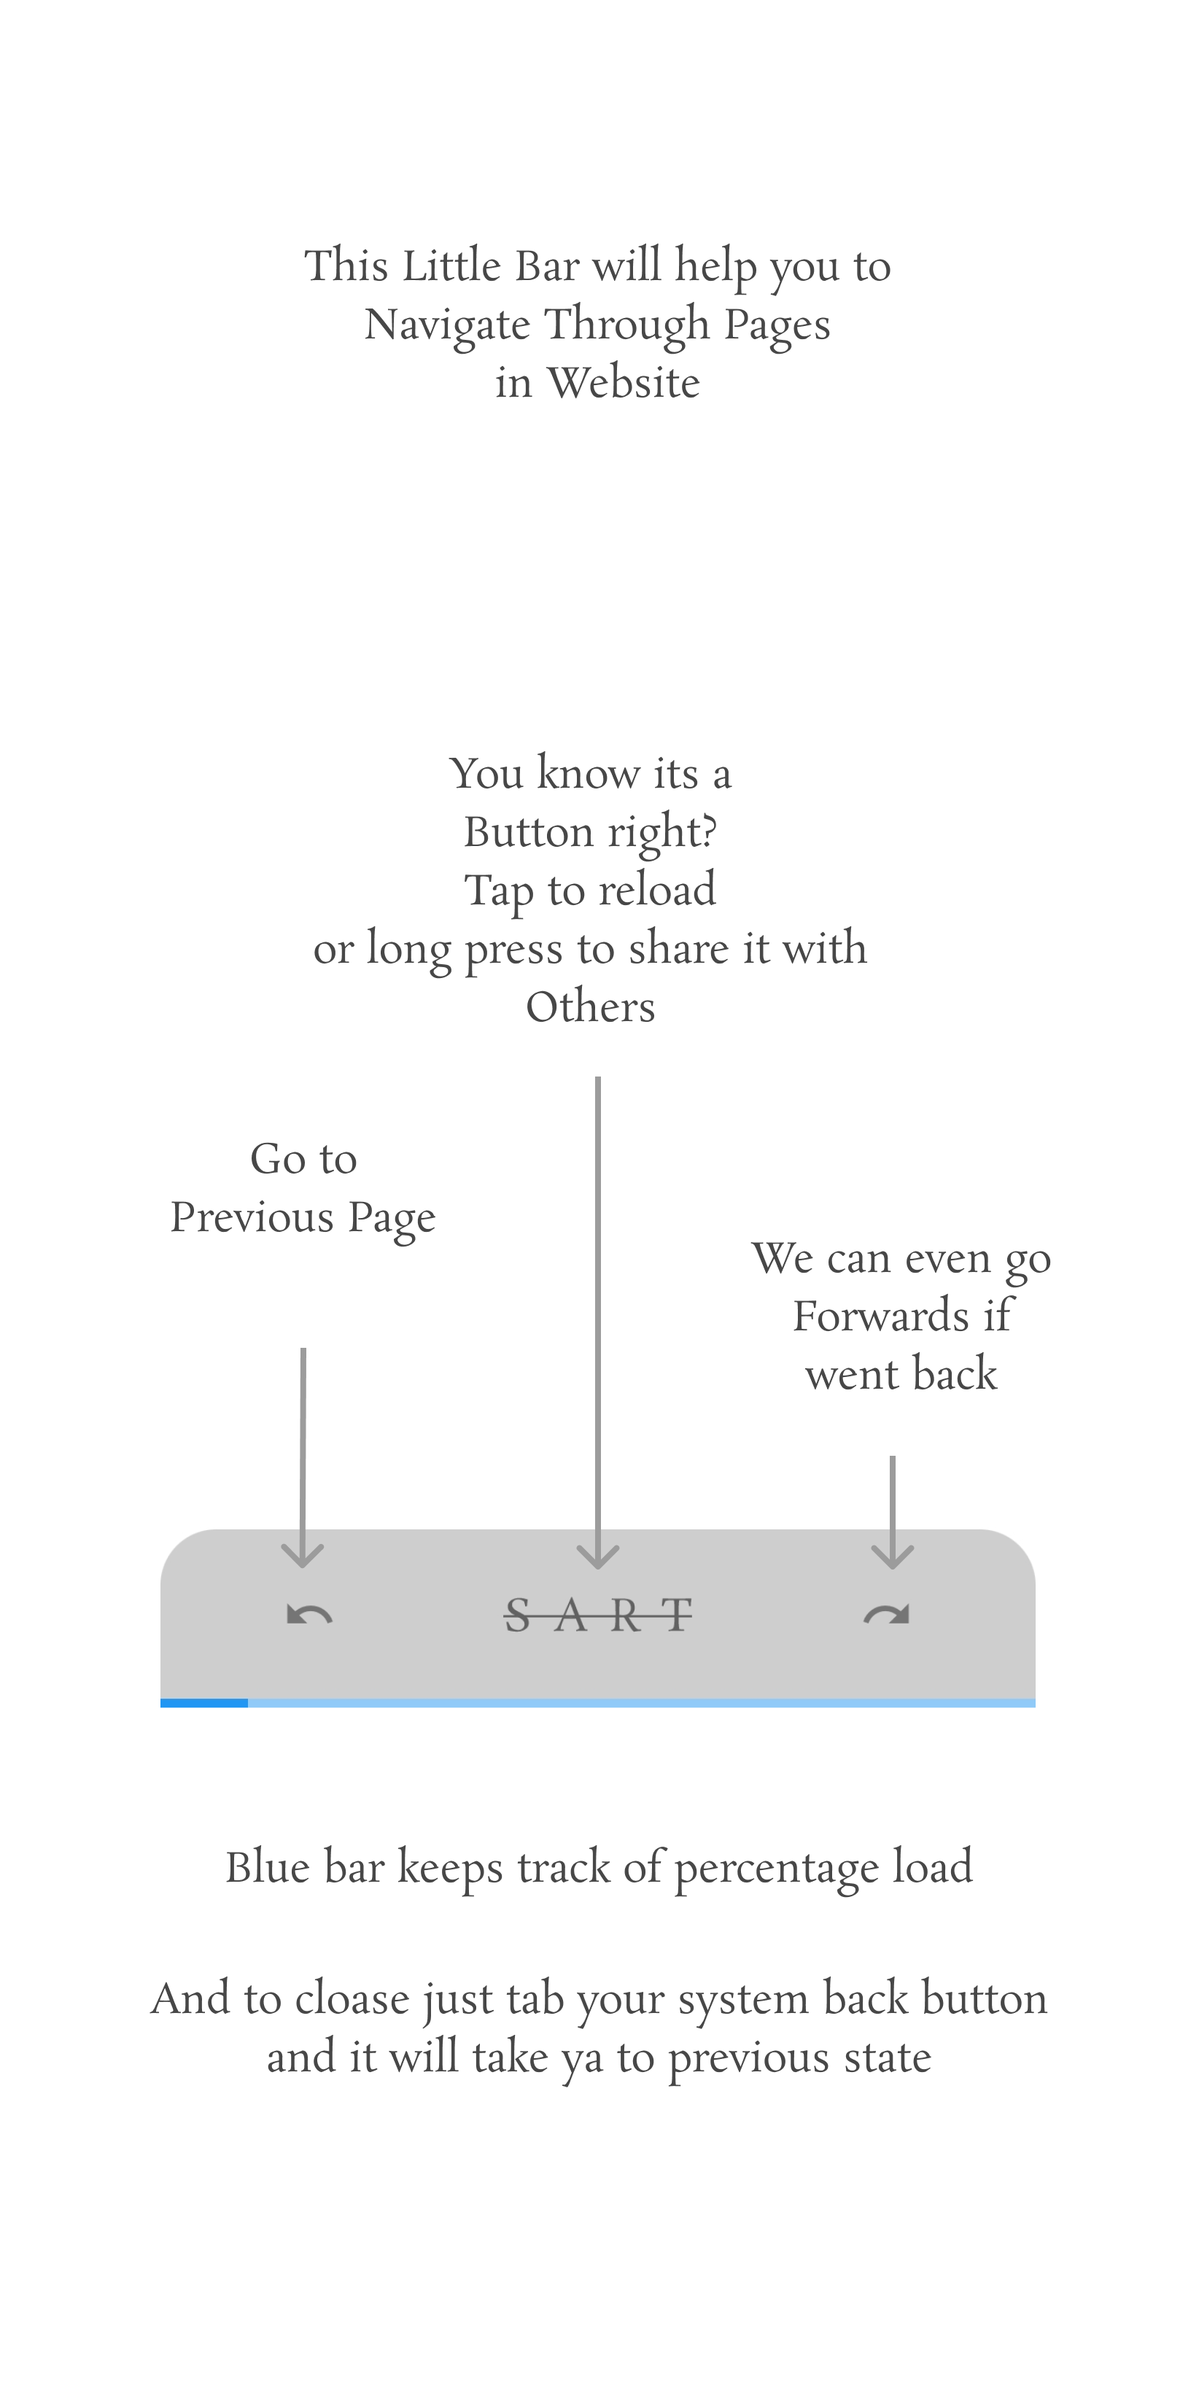
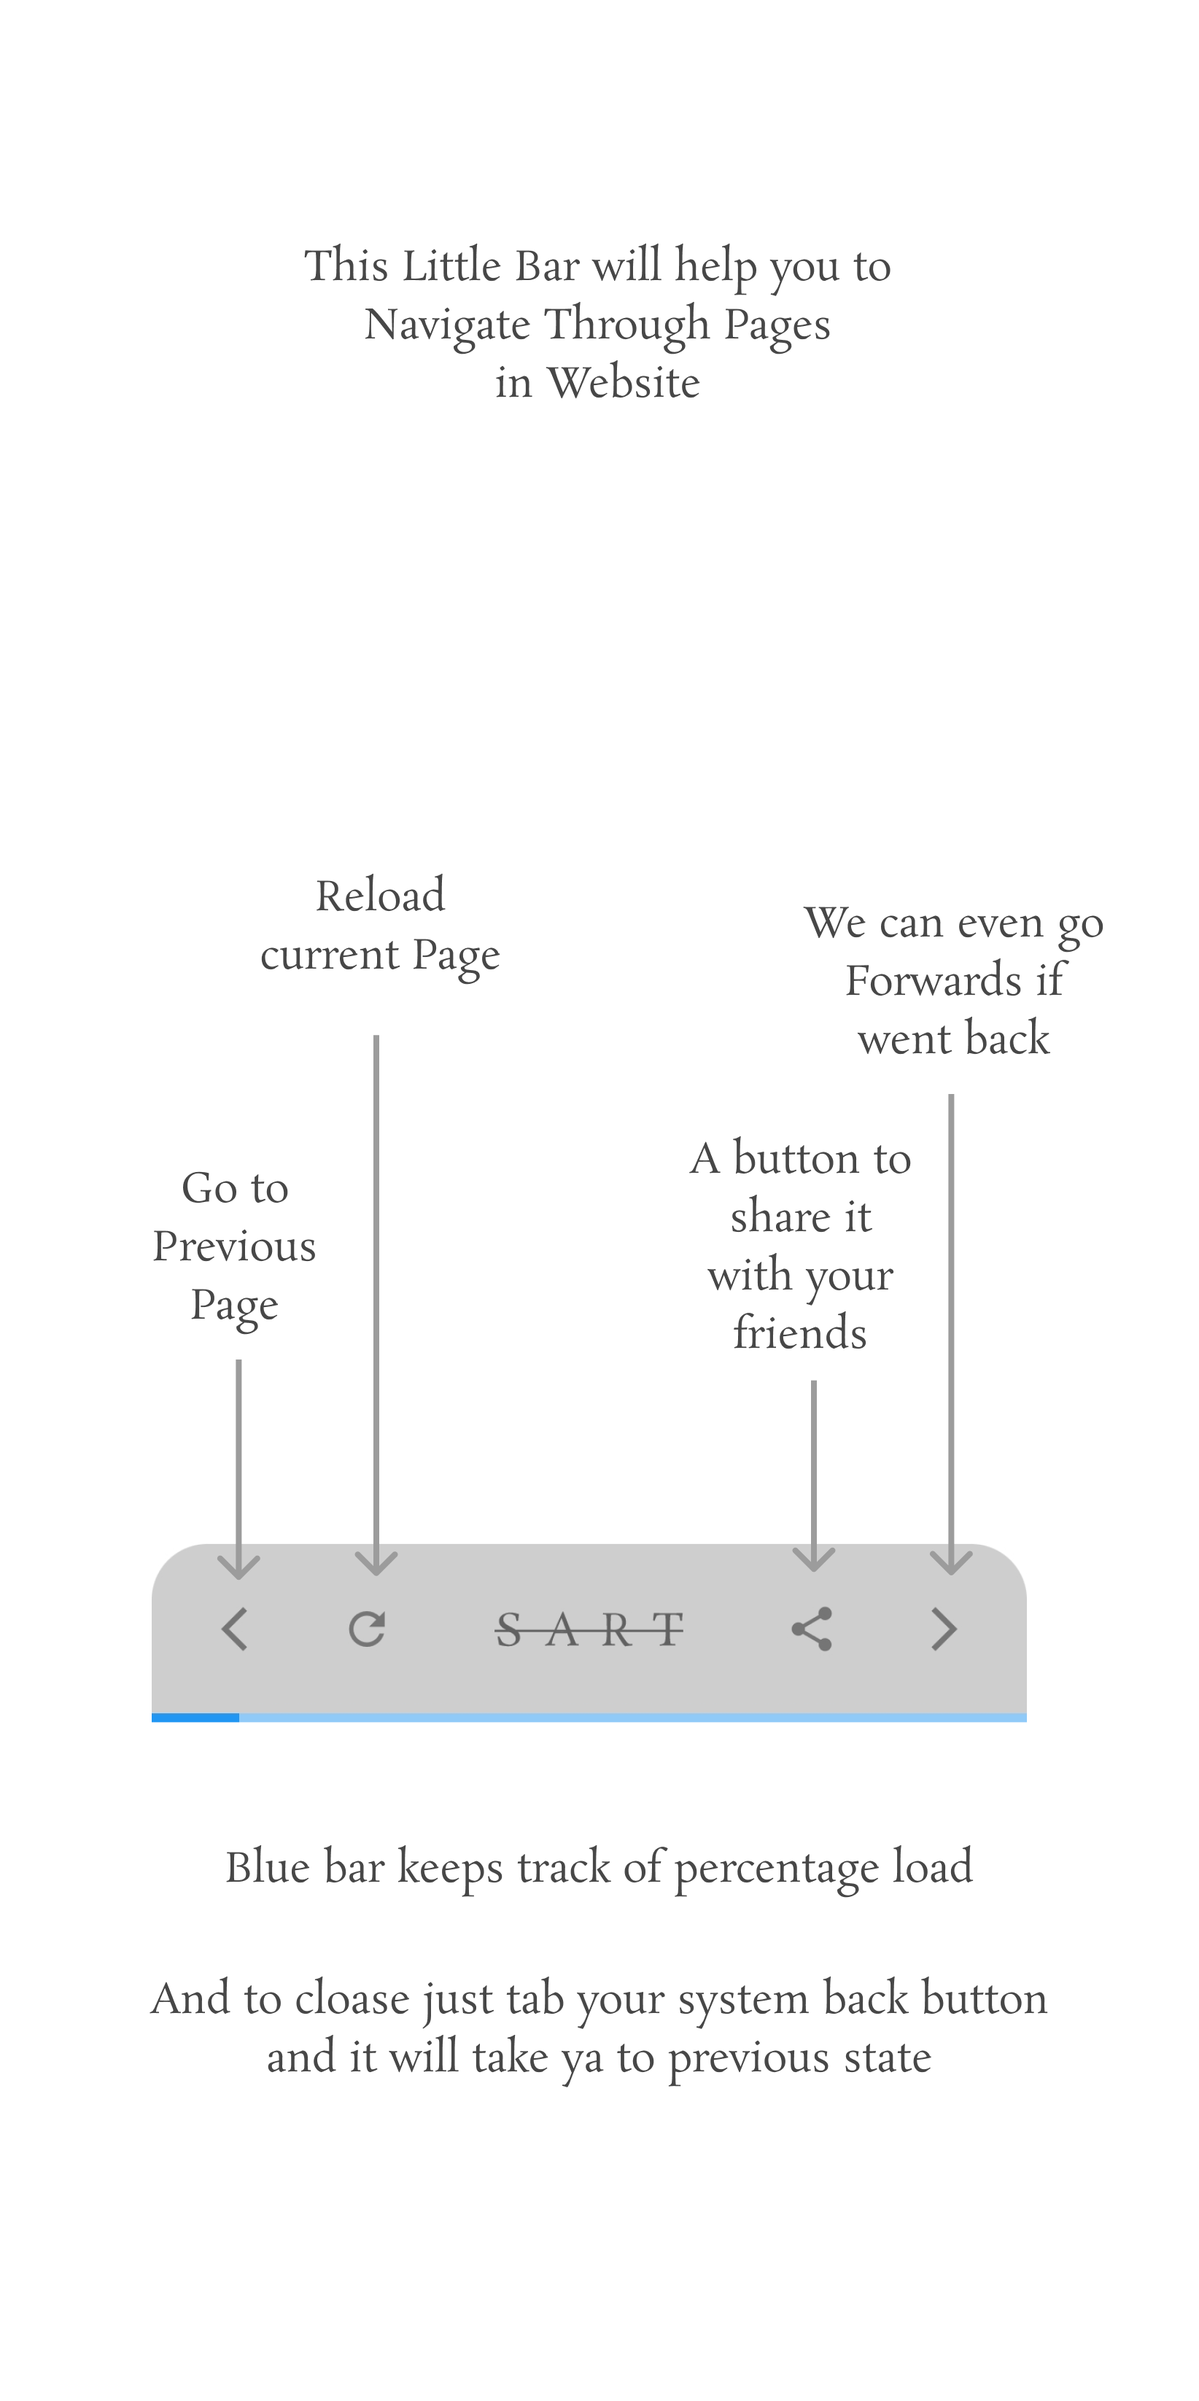
Final app

Changed region(s): [[0.1241, 0.4338, 0.8686, 0.7436], [0.2482, 0.3098, 0.5894, 0.4338], [0.6515, 0.3718, 0.8996, 0.4338]]

diff --git a/lib/Home/homepage.dart b/lib/Home/homepage.dart
@@ -1,5 +1,6 @@
 import 'dart:async';
 import 'dart:ui';
+import 'package:sart/guidepage.dart';
 import 'package:share/share.dart';
 import 'package:firebase_core/firebase_core.dart';
 import 'package:flutter/material.dart';
@@ -11,8 +12,9 @@ import 'package:cached_network_image/cached_network_image.dart';
 import 'package:sart/Home/database.dart';
 import 'package:sart/Home/favoritePage.dart';
 import 'package:flutter_svg/flutter_svg.dart';
+import 'package:url_launcher/url_launcher.dart';
 
-var linkList, filterData, slider;
+var filterData, slider, allLinks;
 
 class HomePage extends StatefulWidget {
   @override
@@ -49,7 +51,7 @@ class _HomePageState extends State<HomePage> {
     resultsMap = filterData.data();
     resultsMap.remove('itemID');
     filterList = resultsMap.entries.map((e) => e.value).toList();
-
+    filterList.shuffle();
     setState(() {
       loading = false;
       activeFilter = true;
@@ -68,7 +70,14 @@ class _HomePageState extends State<HomePage> {
 
   void getData() async {
     await Firebase.initializeApp();
-    linkList = await FirebaseFirestore.instance.collection("AllLinks").get();
+    allLinks = await FirebaseFirestore.instance
+        .collection("AllLinks1")
+        .doc("AllLinks")
+        .get();
+    allLinks = allLinks.data();
+    allLinks.remove('itemID');
+    allLinks = allLinks.entries.map((e) => e.value).toList();
+    allLinks.shuffle();
     slider = await FirebaseFirestore.instance
         .collection("Slider")
         .doc("All_links")
@@ -76,7 +85,7 @@ class _HomePageState extends State<HomePage> {
     slider = slider.data();
     slider.remove('itemID');
     slider = slider.entries.map((e) => e.value).toList();
-
+    slider.shuffle();
     favo = await MySharedPreferences.getListData("favo");
     favoName = await MySharedPreferences.getListData("favoName");
     if (favo == null || favoName == null) {
@@ -85,18 +94,27 @@ class _HomePageState extends State<HomePage> {
       favo = await MySharedPreferences.getListData("favo");
       favoName = await MySharedPreferences.getListData("favoName");
     }
-    if (linkList != null && slider != null) {
+    if (allLinks != null && slider != null) {
       setState(() {
         loading = false;
       });
     }
   }
 
-  Future<bool> backButtonControl() {
+  Future<bool> backButtonControl() async {
     if (activeWebView) {
-      setState(() {
-        activeWebView = false;
-      });
+      var url = await _webViewController.getUrl();
+      var url1 = url.toString().replaceAll('/', '');
+      var url2 = passedUrl.replaceAll('/', '');
+      print(url1);
+      print(url2);
+      if (url2 == url1) {
+        setState(() {
+          activeWebView = false;
+        });
+      } else {
+        _webViewController.goBack();
+      }
     } else if (activeSearchBar) {
       setState(() {
         activeSearchBar = false;
@@ -105,7 +123,7 @@ class _HomePageState extends State<HomePage> {
       setState(() {
         activeFilter = false;
       });
-    }
+    } else {}
   }
 
   @override
@@ -289,9 +307,9 @@ class _HomePageState extends State<HomePage> {
           child: ListView.builder(
               physics: BouncingScrollPhysics(),
               controller: _controller,
-              itemCount: linkList.docs.length,
+              itemCount: allLinks.length,
               itemBuilder: (BuildContext context, int index) {
-                return linkList.docs[index]['name']
+                return allLinks[index][0]
                         .toLowerCase()
                         .contains(textController.text.toLowerCase())
                     ? Column(
@@ -310,14 +328,14 @@ class _HomePageState extends State<HomePage> {
                                     height: 10,
                                   ),
                                   Text(
-                                    linkList.docs[index]['name'],
+                                    allLinks[index][0],
                                     style: TextStyle(fontSize: 20),
                                   ),
                                   GestureDetector(
                                     onTap: () {
                                       setState(() {
-                                        print(linkList.docs[index]['url']);
-                                        passedUrl = linkList.docs[index]['url'];
+                                        print(allLinks[index][1]);
+                                        passedUrl = allLinks[index][1];
                                         activeWebView = true;
                                       });
                                     },
@@ -330,7 +348,7 @@ class _HomePageState extends State<HomePage> {
                                         showMultimedia: false,
                                         useMultithread: true,
                                         cache: Duration(microseconds: 10),
-                                        url: linkList.docs[index]['url'],
+                                        url: allLinks[index][0],
                                       ),
                                     ),
                                   ),
@@ -534,7 +552,7 @@ class _HomePageState extends State<HomePage> {
                 child: ListView.builder(
                     physics: BouncingScrollPhysics(),
                     controller: _controller,
-                    itemCount: linkList.docs.length,
+                    itemCount: allLinks.length,
                     itemBuilder: (BuildContext context, int index) {
                       return Column(
                         children: [
@@ -557,12 +575,12 @@ class _HomePageState extends State<HomePage> {
                                         width: 20,
                                       ),
                                       Text(
-                                        linkList.docs[index]["name"],
+                                        allLinks[index][0],
                                         style: TextStyle(fontSize: 20),
                                       ),
                                       Spacer(),
-                                      favoIcon(linkList.docs[index]['url'],
-                                          linkList.docs[index]['name']),
+                                      favoIcon(allLinks[index][1],
+                                          allLinks[index][0]),
                                       SizedBox(
                                         width: 20,
                                       ),
@@ -571,8 +589,8 @@ class _HomePageState extends State<HomePage> {
                                   GestureDetector(
                                     onTap: () {
                                       setState(() {
-                                        print(linkList.docs[index]["url"]);
-                                        passedUrl = linkList.docs[index]["url"];
+                                        print(allLinks[index][1]);
+                                        passedUrl = allLinks[index][1];
                                         activeWebView = true;
                                       });
                                     },
@@ -588,20 +606,19 @@ class _HomePageState extends State<HomePage> {
                                           autoPlayCurve: Curves.decelerate,
                                           scrollDirection: Axis.horizontal,
                                         ),
-                                        itemCount:
-                                            linkList.docs[index]["img"].length,
+                                        itemCount: 5,
                                         itemBuilder: (BuildContext context,
                                                 int index1, int itemIndex) =>
                                             CachedNetworkImage(
                                                 fit: BoxFit.contain,
-                                                imageUrl: linkList.docs[index]
-                                                    ["img"][index1])),
+                                                imageUrl: allLinks[index]
+                                                    [index1 + 2])),
                                   ),
                                   GestureDetector(
                                     onTap: () {
                                       setState(() {
-                                        print(linkList.docs[index]["url"]);
-                                        passedUrl = linkList.docs[index]["url"];
+                                        print(allLinks[index][1]);
+                                        passedUrl = allLinks[index][1];
                                         activeWebView = true;
                                       });
                                     },
@@ -612,7 +629,7 @@ class _HomePageState extends State<HomePage> {
                                       padding: EdgeInsets.all(18),
                                       child: FlutterLinkPreview(
                                         cache: const Duration(days: 3),
-                                        url: linkList.docs[index]["url"],
+                                        url: allLinks[index][1],
                                       ),
                                     ),
                                   ),
@@ -671,23 +688,39 @@ class _HomePageState extends State<HomePage> {
                               child: Container(
                                 padding: EdgeInsets.all(10),
                                 child: Icon(
-                                  Icons.undo,
+                                  Icons.arrow_back_ios_outlined,
                                   color: Colors.grey[600],
                                 ),
                               ),
                             ),
                             GestureDetector(
-                              onLongPress: () {
-                                shareLink();
-                              },
                               onTap: () {
                                 _webViewController.reload();
                               },
                               child: Container(
-                                padding: EdgeInsets.all(20),
-                                child: SvgPicture.asset(
-                                  "assets/images/Sart 2.svg",
-                                  color: Colors.grey[700],
+                                padding: EdgeInsets.all(10),
+                                child: Icon(
+                                  Icons.refresh,
+                                  color: Colors.grey[600],
+                                ),
+                              ),
+                            ),
+                            Container(
+                              padding: EdgeInsets.all(20),
+                              child: SvgPicture.asset(
+                                "assets/images/Sart 2.svg",
+                                color: Colors.grey[700],
+                              ),
+                            ),
+                            GestureDetector(
+                              onTap: () {
+                                shareLink();
+                              },
+                              child: Container(
+                                padding: EdgeInsets.all(10),
+                                child: Icon(
+                                  Icons.share,
+                                  color: Colors.grey[600],
                                 ),
                               ),
                             ),
@@ -698,7 +731,7 @@ class _HomePageState extends State<HomePage> {
                               child: Container(
                                 padding: EdgeInsets.all(10),
                                 child: Icon(
-                                  Icons.redo,
+                                  Icons.arrow_forward_ios_outlined,
                                   color: Colors.grey[600],
                                 ),
                               ),
@@ -987,12 +1020,72 @@ class _HomePageState extends State<HomePage> {
                         ],
                       ),
                     ),
-                  )
+                  ),
+                  Expanded(
+                    child: Container(
+                      child: Column(children: [
+                        SizedBox(height: 10),
+                        GestureDetector(
+                          onTap: () {
+                            goToGuide();
+                          },
+                          child: Container(
+                              height: 50,
+                              width: 200,
+                              padding: EdgeInsets.only(
+                                right: 10,
+                                left: 10,
+                              ),
+                              decoration: BoxDecoration(
+                                  border: Border.all(color: Colors.grey),
+                                  borderRadius:
+                                      BorderRadius.all(Radius.circular(30))),
+                              child: Center(
+                                  child: Text(
+                                "About Us",
+                                style: TextStyle(fontSize: 18),
+                              ))),
+                        ),
+                        SizedBox(
+                          height: 14,
+                        ),
+                        GestureDetector(
+                          onTap: () => openEmail('malay@gmail.com'),
+                          child: Container(
+                              height: 50,
+                              width: 200,
+                              padding: EdgeInsets.only(
+                                right: 10,
+                                left: 10,
+                              ),
+                              decoration: BoxDecoration(
+                                  border: Border.all(color: Colors.grey),
+                                  borderRadius:
+                                      BorderRadius.all(Radius.circular(30))),
+                              child: Center(
+                                  child: Text(
+                                "Contact Us",
+                                style: TextStyle(fontSize: 18),
+                              ))),
+                        ),
+                      ]),
+                    ),
+                  ),
                 ],
               ),
             ),
           )
         : Container();
+  }
+
+  goToGuide() async {
+    await MySharedPreferences.setForFirstTimeLogin('var', true);
+    Navigator.push(
+        context, MaterialPageRoute(builder: (context) => GuidePage()));
+  }
+
+  openEmail(email) async {
+    await launch('mailto:sart.vriksh.dev@gmail.com');
   }
 
   Widget favoIcon(favoUrl, favoNa) {

diff --git a/lib/guidepage.dart b/lib/guidepage.dart
@@ -8,16 +8,21 @@ class GuidePage extends StatefulWidget {
 }
 
 class _GuidePageState extends State<GuidePage> {
-  bool whitepage = true;
+  bool whitepage = true, a;
 
   checkForFir() async {
-    var a = await MySharedPreferences.getForFirstTimeLogin('var');
+    a = await MySharedPreferences.getForFirstTimeLogin('var');
     print("\n\n\n");
     print(a);
     if (a == false) {
-      Navigator.push(
+      Navigator.pushReplacement(
           context, MaterialPageRoute(builder: (context) => HomePage()));
+    } else if (a == null) {
+      setState(() {
+        whitepage = false;
+      });
     } else {
+      MySharedPreferences.setForFirstTimeLogin('var', false);
       setState(() {
         whitepage = false;
       });
@@ -36,6 +41,23 @@ class _GuidePageState extends State<GuidePage> {
           ? Container()
           : PageView(
               children: [
+                Stack(
+                  children: [
+                    Center(
+                        child: Image.asset(
+                      "assets/images/guide0.png",
+                    )),
+                    Positioned(
+                        bottom: 30,
+                        right: 30,
+                        child: a
+                            ? Container()
+                            : Text(
+                                "Swipe Left to\n Agree and Continue",
+                                style: TextStyle(color: Colors.grey),
+                              ))
+                  ],
+                ),
                 Stack(
                   children: [
                     Center(
